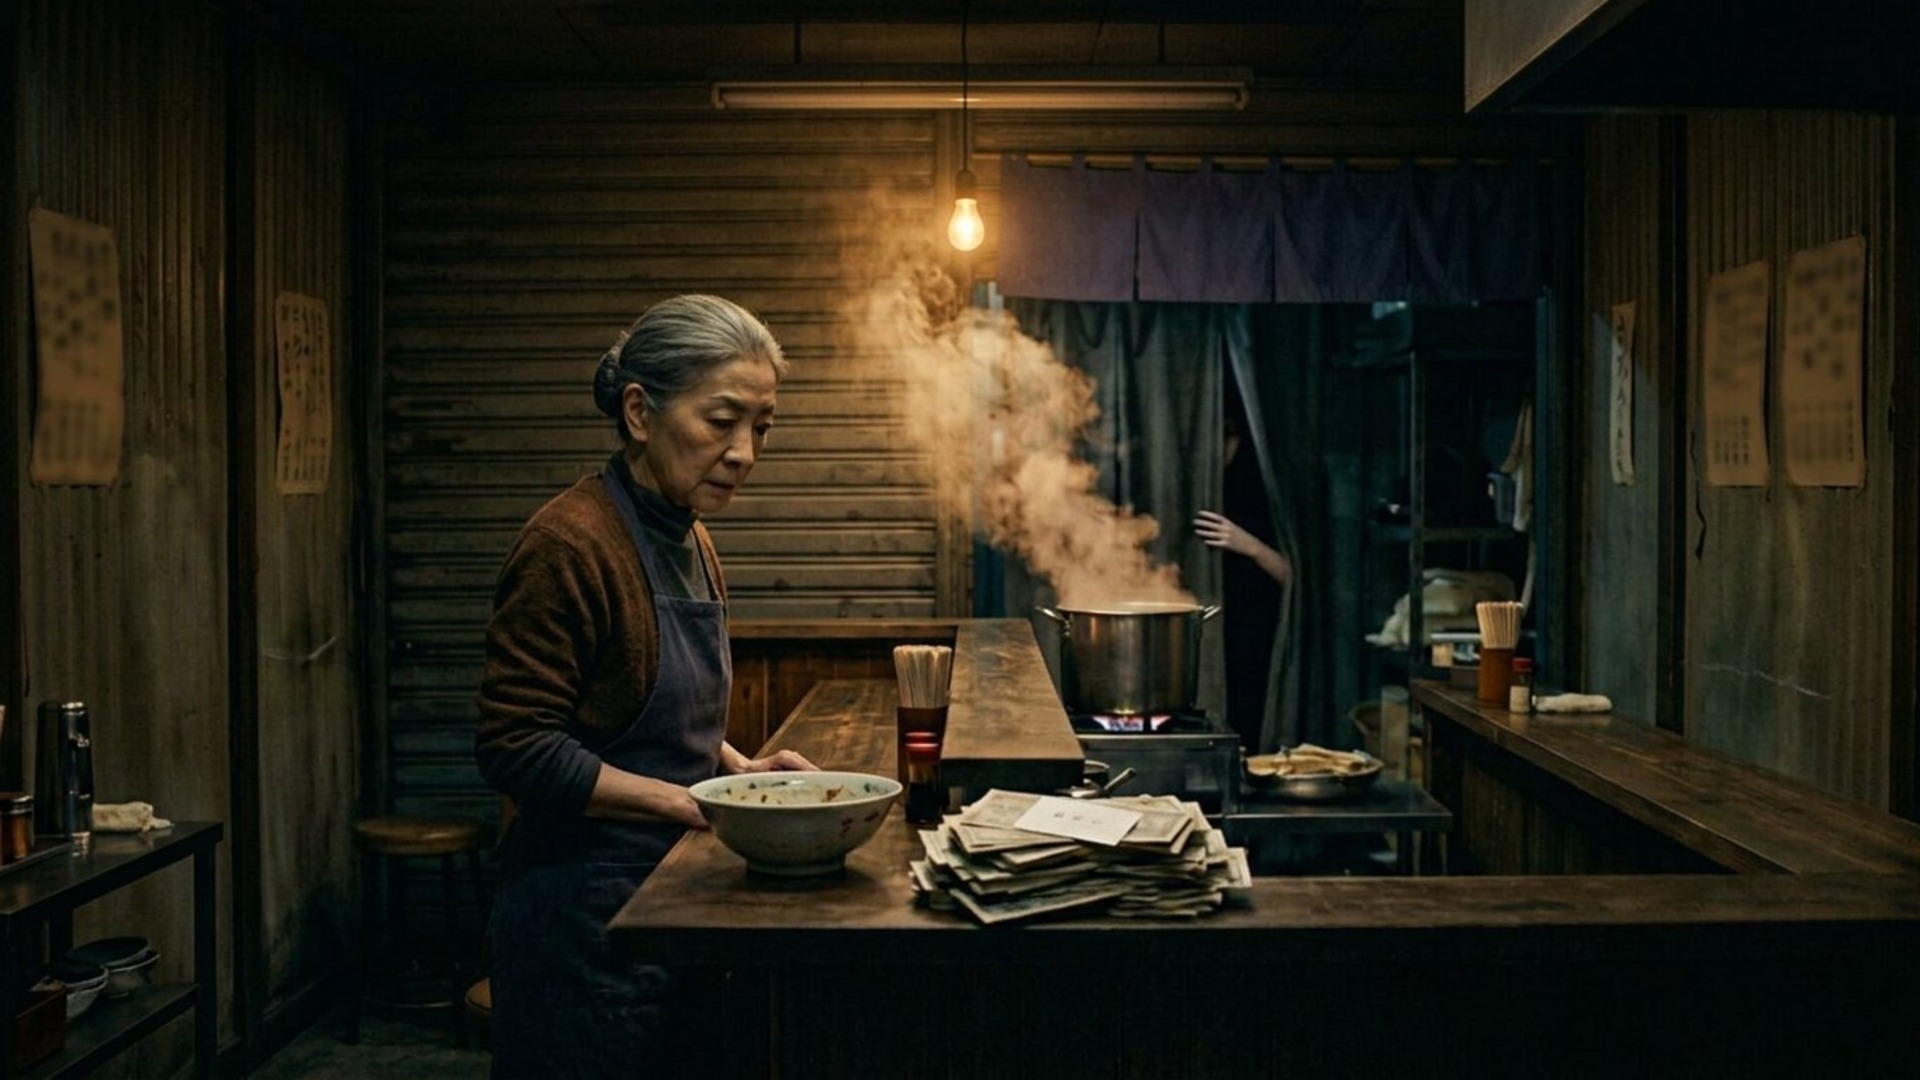
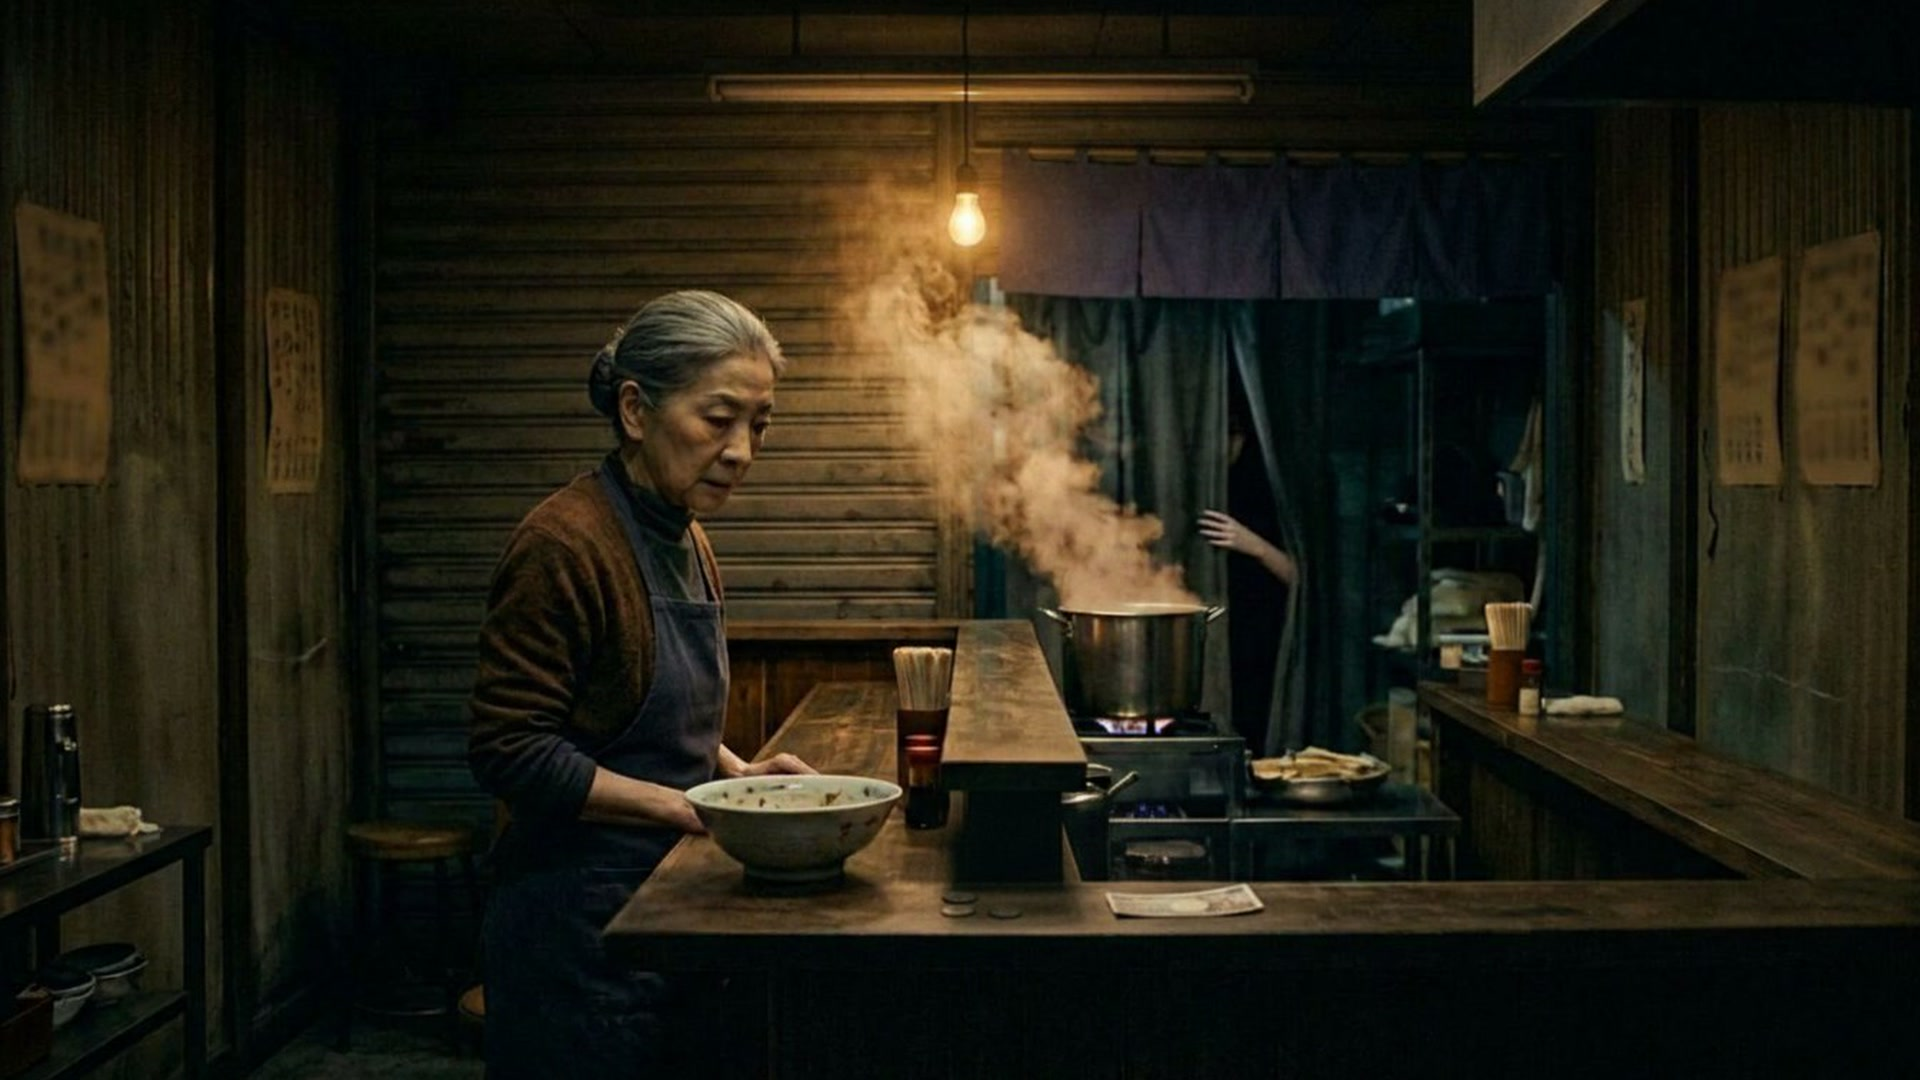
Fix 358's Jack, add 360's business card, cut 188's money
358 had a man who was not Jack (now held to sheets/jack.jpg, 2048x1152). 360
was missing the business card the script gives it on top of the money. 188 had
a thick wad of notes for one bowl - now a note and coins like 360 - and Kaneko
is held to sheets/kaneko.jpg. Old files archived; 556 left as it was.

diff --git a/docs/director-notes-2026-10-20.md b/docs/director-notes-2026-10-20.md
@@ -458,6 +458,23 @@ The director picked the 17 pictures made from `docs/image-brief-2026-10-20.md` a
     1920×1080, was 1344×768; old file `archive/s70/396-five-metres-three--v1.jpg`. `s94/368-the-door-closes` (Kurose and
     Ishida on the back seat, held to `sheets/kurose.jpg`, `sheets/ishida.jpg` and the tea cup from `s94/139`) — now 1920×1080,
     was 1408×736; old file `archive/s94/368-the-door-closes--v1.jpg`.
+## 24A. Three content fixes at Kaneko's counter (24 October)
+- **`s17/358-the-empty-third-stool`: the man was not Jack.** The face in that picture was a longer-faced man, not
+  `sheets/jack.jpg`; he is now the film's Jack (lean, long dark greying hair swept back, stubbled), same pose and place,
+  held to `sheets/jack.jpg` and the same counter's `s17/434-i-was-already-old`. 2048×1152, native. Old file
+  `archive/s17/358-the-empty-third-stool--v1.jpg`.
+- **`s17/360-more-than-the-bowl-costs`: the business card was missing.** The script has *"He puts down a little more than the
+  bowl costs, and a business card on top of it"* (scene 17, and Kaneko answers *"He always paid too much, too."*), so the card
+  is legitimate and now sits on the note and coins. 1920×1080 (the take came out at 1355×774, so it was enlarged); old file
+  `archive/s17/360-more-than-the-bowl-costs--v2.jpg`.
+- **`s17/188-something-moves`: too much money.** The thick wad of banknotes on the counter was far more than a bowl of noodles;
+  it is now a single folded 1000-yen note and a few coins, the same money as `s17/360`. Kaneko is also held to
+  `sheets/kaneko.jpg` (straight grey hair in a low bun, brown cardigan, faded denim apron). 1920×1080 (enlarged from
+  1344×768); old file `archive/s17/188-something-moves--v2.jpg`.
+- **`service_new/556-the-lane-from-above` left as it was** (the director's call), though `559` and `560` were remade:
+  `559` is 1920×1080 (was 1377×761, `archive/service_new/559-shoes-at-the-step--v1.jpg`) and `560` 2076×1168 native
+  (was 1376×768, `archive/service_new/560-jack-at-the-door--v1.jpg`).
+
 - **Exactly 1920×1080 does not mean full detail.** The 17 retakes of 20 October were enlarged to 1920×1080 from the
   generator's smaller output, and many older pictures may have been too. A sharpness measurement could not tell those from
   native pictures reliably, so they are not listed. A picture that looks soft at full size is worth reporting by its mark
